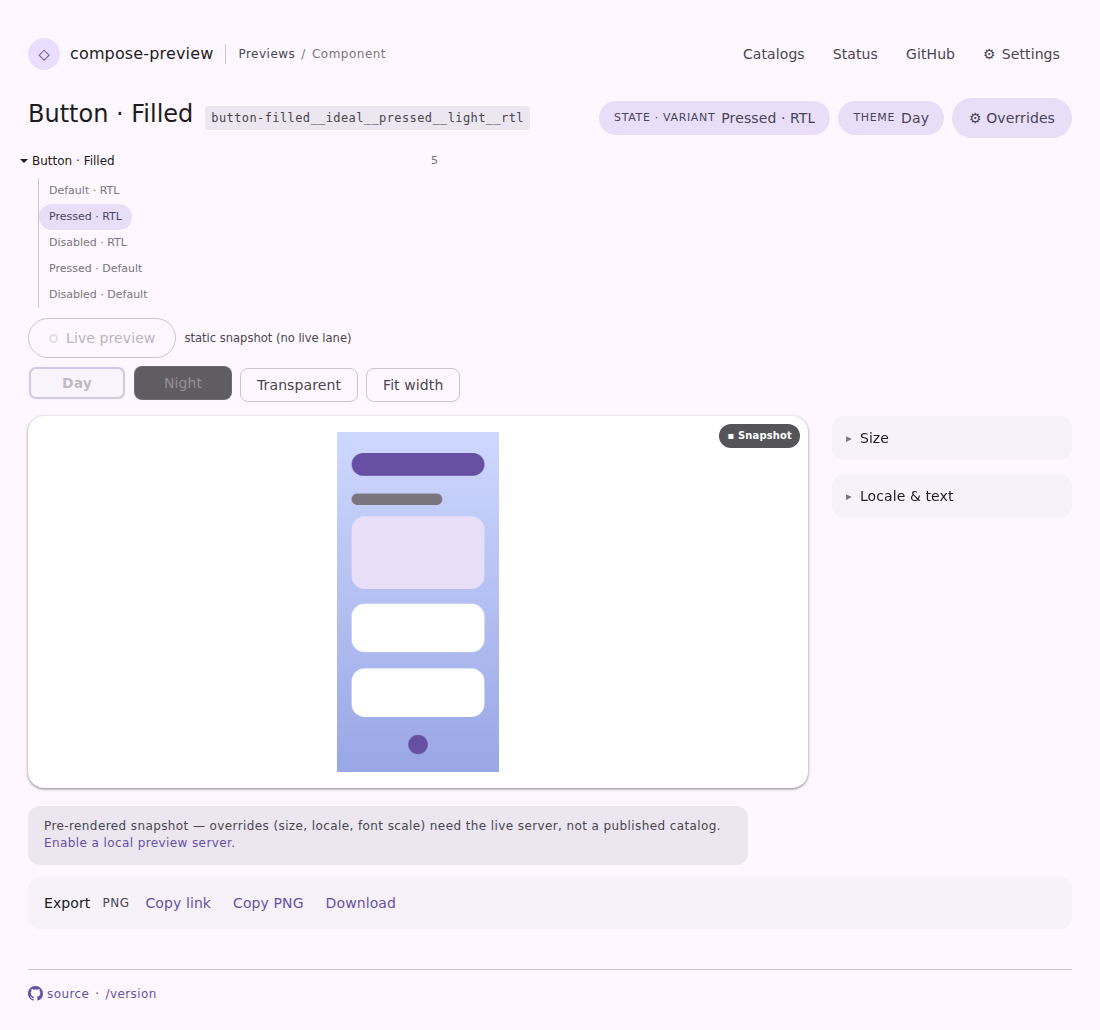
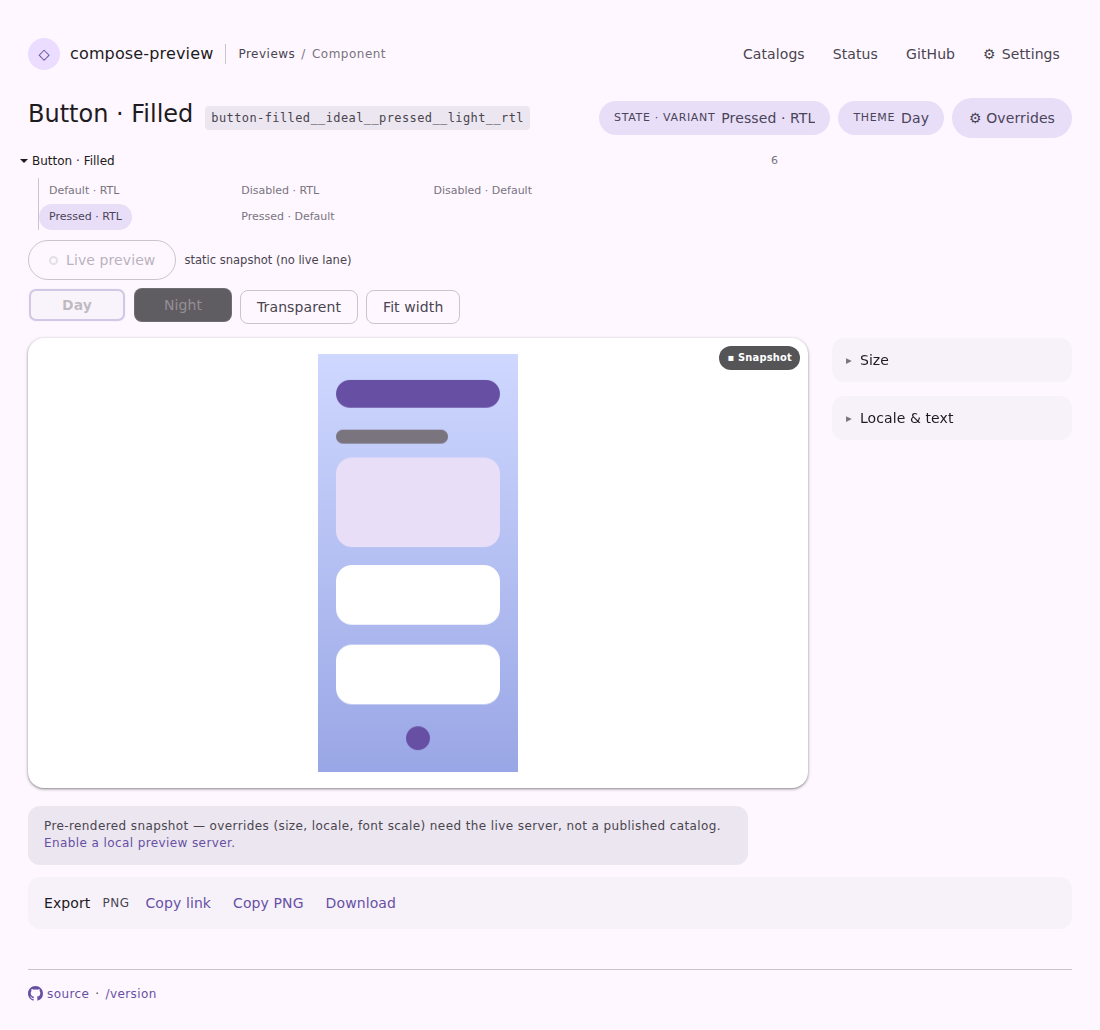
feat(serve): fold the default render into the component row, and flow a long axis into columns
Two things the merged subtree got wrong, both only visible at the real
catalog's shape.

**The default render was listed twice.** The component row already links
it — in the viewer that row IS a render, not a jump to a card — and a
`Default` child sat directly beneath saying the same thing with the same
href, one line down. The default folds up into the component row now,
which also gets the `aria-current` pill when it is the render on screen;
the children are only the ways this component differs. The landing tree
keeps its synthetic `Default` child, where the component row is an
in-page jump and the default really would have no entry otherwise.

**A long axis ran down the page.** `iconbutton-outlined` bakes 22 renders
across size × width × shape; opened, that was a 550px single-column
ladder of two-word labels with the entire right-hand side of the viewer
empty — the tree inheriting a shape that only makes sense in the
landing's 216px sidebar. The variant list now flows into columns
(`column-width`, so the browser picks the count), which puts those 22
rows in four short columns about 160px tall.

The wide-axis fixture goes from 10 states to the real 22 so the capture
shows what the open subtree actually costs on the catalog that motivated
this, rather than a token few that flattered it.

diff --git a/vscode-extension/preview-harness/fixtures/pages/serve-viewer-axes-folded.html b/vscode-extension/preview-harness/fixtures/pages/serve-viewer-axes-folded.html
@@ -62,18 +62,29 @@
       <div class="cp-axes" id="cp-axes" hidden>
 <nav class="cp-tree cp-axes-tree" aria-label="Component renders">
   <ul class="cp-tree-list" role="tree">
-    <li role="none"><a class="cp-tree-component cp-tree-link" role="treeitem" href="/p/iconbutton-outlined__ideal__default__light?token=demo-token-fixture&amp;session=compose-m3" aria-expanded="true" aria-owns="cp-axes-tree-variants">Icon Button Outlined · default (light)<span class="cp-tree-count">10</span></a>
+    <li role="none"><a class="cp-tree-component cp-tree-link" role="treeitem" href="/p/iconbutton-outlined__ideal__default__light?token=demo-token-fixture&amp;session=compose-m3" aria-expanded="true" aria-owns="cp-axes-tree-variants" aria-current="page">Icon Button Outlined · default (light)<span class="cp-tree-count">22</span></a>
       <ul class="cp-tree-children cp-tree-variants" id="cp-axes-tree-variants" role="group">
-        <li role="none"><a class="cp-tree-variant cp-tree-link" role="treeitem" href="/p/iconbutton-outlined__ideal__default__light?token=demo-token-fixture&amp;session=compose-m3" aria-current="page">Default</a></li>
         <li role="none"><a class="cp-tree-variant cp-tree-link" role="treeitem" href="/p/iconbutton-outlined__ideal__disabled__light?token=demo-token-fixture&amp;session=compose-m3">Disabled</a></li>
         <li role="none"><a class="cp-tree-variant cp-tree-link" role="treeitem" href="/p/iconbutton-outlined__ideal__xs__light?token=demo-token-fixture&amp;session=compose-m3">Xs</a></li>
+        <li role="none"><a class="cp-tree-variant cp-tree-link" role="treeitem" href="/p/iconbutton-outlined__ideal__xs-narrow__light?token=demo-token-fixture&amp;session=compose-m3">Xs narrow</a></li>
+        <li role="none"><a class="cp-tree-variant cp-tree-link" role="treeitem" href="/p/iconbutton-outlined__ideal__xs-square__light?token=demo-token-fixture&amp;session=compose-m3">Xs square</a></li>
+        <li role="none"><a class="cp-tree-variant cp-tree-link" role="treeitem" href="/p/iconbutton-outlined__ideal__xs-wide__light?token=demo-token-fixture&amp;session=compose-m3">Xs wide</a></li>
         <li role="none"><a class="cp-tree-variant cp-tree-link" role="treeitem" href="/p/iconbutton-outlined__ideal__s__light?token=demo-token-fixture&amp;session=compose-m3">S</a></li>
+        <li role="none"><a class="cp-tree-variant cp-tree-link" role="treeitem" href="/p/iconbutton-outlined__ideal__s-narrow__light?token=demo-token-fixture&amp;session=compose-m3">S narrow</a></li>
+        <li role="none"><a class="cp-tree-variant cp-tree-link" role="treeitem" href="/p/iconbutton-outlined__ideal__s-square__light?token=demo-token-fixture&amp;session=compose-m3">S square</a></li>
+        <li role="none"><a class="cp-tree-variant cp-tree-link" role="treeitem" href="/p/iconbutton-outlined__ideal__s-wide__light?token=demo-token-fixture&amp;session=compose-m3">S wide</a></li>
         <li role="none"><a class="cp-tree-variant cp-tree-link" role="treeitem" href="/p/iconbutton-outlined__ideal__m__light?token=demo-token-fixture&amp;session=compose-m3">M</a></li>
-        <li role="none"><a class="cp-tree-variant cp-tree-link" role="treeitem" href="/p/iconbutton-outlined__ideal__l__light?token=demo-token-fixture&amp;session=compose-m3">L</a></li>
-        <li role="none"><a class="cp-tree-variant cp-tree-link" role="treeitem" href="/p/iconbutton-outlined__ideal__xl__light?token=demo-token-fixture&amp;session=compose-m3">Xl</a></li>
-        <li role="none"><a class="cp-tree-variant cp-tree-link" role="treeitem" href="/p/iconbutton-outlined__ideal__m-wide__light?token=demo-token-fixture&amp;session=compose-m3">M wide</a></li>
+        <li role="none"><a class="cp-tree-variant cp-tree-link" role="treeitem" href="/p/iconbutton-outlined__ideal__m-narrow__light?token=demo-token-fixture&amp;session=compose-m3">M narrow</a></li>
         <li role="none"><a class="cp-tree-variant cp-tree-link" role="treeitem" href="/p/iconbutton-outlined__ideal__m-square__light?token=demo-token-fixture&amp;session=compose-m3">M square</a></li>
+        <li role="none"><a class="cp-tree-variant cp-tree-link" role="treeitem" href="/p/iconbutton-outlined__ideal__m-wide__light?token=demo-token-fixture&amp;session=compose-m3">M wide</a></li>
+        <li role="none"><a class="cp-tree-variant cp-tree-link" role="treeitem" href="/p/iconbutton-outlined__ideal__l__light?token=demo-token-fixture&amp;session=compose-m3">L</a></li>
+        <li role="none"><a class="cp-tree-variant cp-tree-link" role="treeitem" href="/p/iconbutton-outlined__ideal__l-narrow__light?token=demo-token-fixture&amp;session=compose-m3">L narrow</a></li>
+        <li role="none"><a class="cp-tree-variant cp-tree-link" role="treeitem" href="/p/iconbutton-outlined__ideal__l-square__light?token=demo-token-fixture&amp;session=compose-m3">L square</a></li>
+        <li role="none"><a class="cp-tree-variant cp-tree-link" role="treeitem" href="/p/iconbutton-outlined__ideal__l-wide__light?token=demo-token-fixture&amp;session=compose-m3">L wide</a></li>
+        <li role="none"><a class="cp-tree-variant cp-tree-link" role="treeitem" href="/p/iconbutton-outlined__ideal__xl__light?token=demo-token-fixture&amp;session=compose-m3">Xl</a></li>
         <li role="none"><a class="cp-tree-variant cp-tree-link" role="treeitem" href="/p/iconbutton-outlined__ideal__xl-narrow__light?token=demo-token-fixture&amp;session=compose-m3">Xl narrow</a></li>
+        <li role="none"><a class="cp-tree-variant cp-tree-link" role="treeitem" href="/p/iconbutton-outlined__ideal__xl-square__light?token=demo-token-fixture&amp;session=compose-m3">Xl square</a></li>
+        <li role="none"><a class="cp-tree-variant cp-tree-link" role="treeitem" href="/p/iconbutton-outlined__ideal__xl-wide__light?token=demo-token-fixture&amp;session=compose-m3">Xl wide</a></li>
       </ul>
     </li>
   </ul>

diff --git a/cli/src/main/kotlin/ee/schimke/composeai/cli/serve/ServeWeb.kt b/cli/src/main/kotlin/ee/schimke/composeai/cli/serve/ServeWeb.kt
@@ -1429,10 +1429,12 @@ object ServeWeb {
     /** Collapsed by default; the viewer's subtree opens, having only one component to show. */
     collapsed: Boolean = true,
     /**
-     * Whether to lead the children with a synthetic **Default** row pointing at [defaultHref]. The
-     * landing needs it — its rows are the component's *variants*, and the default render is not one
-     * of them. The viewer's rows already include the default (it is a state like any other), so
-     * emitting it there would list the same render twice under one component.
+     * Whether to lead the children with a synthetic **Default** row pointing at [defaultHref].
+     *
+     * The landing needs it: there the component row is an in-page jump to a card, not a render, so
+     * without this row the default has no entry of its own. The viewer does not, because there the
+     * component row IS the default render — a `Default` child beneath it would be a second row with
+     * the same href and the same destination, which is the duplication this flag exists to avoid.
      */
     syntheticDefaultRow: Boolean = true,
     /** The row whose href matches is `aria-current="page"` — the render on screen. */
@@ -1440,21 +1442,22 @@ object ServeWeb {
     indent: String = "        ",
   ) {
     fun current(target: String) = if (target == currentHref) " aria-current=\"page\"" else ""
-    // Only the VARIANT rows can be current. The component row and the synthetic Default row share
-    // an href — the component's default render — so marking both would put two "you are here"
-    // pills in a three-row list. The component row names the component; the rows under it are the
-    // renders, and one of those is the page.
+    // The component row can itself be current — in the viewer it IS the default render, the rows
+    // under it being the other ones. Nothing double-marks, because a caller that folds the default
+    // into this row also drops it from [variants]; a caller that keeps a synthetic Default row
+    // (the landing) passes no [currentHref] at all.
     append("$indent<li role=\"none\"><a class=\"cp-tree-component cp-tree-link\"")
     append(" role=\"treeitem\" href=\"${WebEscaping.htmlEscape(href)}\"$rowAttrs")
     if (variants.isNotEmpty()) {
       append(" aria-expanded=\"${!collapsed}\" aria-owns=\"$variantsId\"")
     }
+    append(current(href))
     append(">")
     append(WebEscaping.htmlEscape(label))
     if (variants.isNotEmpty()) {
-      append(
-        "<span class=\"cp-tree-count\">${variants.size + if (syntheticDefaultRow) 1 else 0}</span>"
-      )
+      // +1 for the default render either way: the landing lists it as the synthetic child row
+      // below, the viewer folds it into this row.
+      append("<span class=\"cp-tree-count\">${variants.size + 1}</span>")
     }
     append("</a>\n")
     if (variants.isNotEmpty()) {
@@ -1654,9 +1657,14 @@ object ServeWeb {
     // subtree built from the axes alone would show the reader every render of this component
     // except the one they are looking at, with nothing marked current. A tree that says "this
     // component's renders" has to contain the page it is drawn on.
-    val variants =
+    val withCurrent =
       if (rows.any { it.href == href(preview) } || preview.id == default.id) rows
       else rows + TreeVariant(previewDisplayName(preview), href(preview), "props")
+    // The DEFAULT render is the component row, not a child of it. Both pointed at the same href —
+    // the same page, reached two ways, one line apart — and the child said "Default" directly under
+    // a row already naming that render. Folding it up leaves the tree saying each render once: the
+    // component, then the ways it differs.
+    val variants = withCurrent.filterNot { it.href == href(default) }
     if (variants.isEmpty()) return ""
     return buildString {
         append("<nav class=\"cp-tree cp-axes-tree\" aria-label=\"Component renders\">\n")

diff --git a/cli/src/test/kotlin/ee/schimke/composeai/cli/serve/ServeWebFixtureTest.kt b/cli/src/test/kotlin/ee/schimke/composeai/cli/serve/ServeWebFixtureTest.kt
@@ -338,13 +338,38 @@ class ServeWebFixtureTest {
   /**
    * A component with a WIDE state axis — the published m3-catalog's `iconbutton-outlined` bakes one
    * render per size × width × shape, which is what pushed the switcher past the point where showing
-   * every chip was worth the fold it cost. Past [ServeWeb]'s inline threshold the rows arrive
-   * folded behind the title bar's `State · …` toggle, so this is the fixture that captures the
-   * *collapsed* axes disclosure for the visual-diff bot; `serve-viewer-states.html` (two states)
-   * keeps the expanded case.
+   * every chip was worth the fold it cost. Sized to that real shape (22 states) rather than a token
+   * few, so the capture shows what the OPEN subtree actually costs on the catalog that motivated
+   * this — the case a smaller fixture would have flattered. Past [ServeWeb]'s inline threshold the
+   * rows arrive folded behind the title bar's `State · …` toggle, so this is the fixture that
+   * captures the *collapsed* axes disclosure for the visual-diff bot; `serve-viewer-states.html`
+   * (two states) keeps the expanded case.
    */
   private val wideStatePreviews =
-    listOf("default", "disabled", "xs", "s", "m", "l", "xl", "m-wide", "m-square", "xl-narrow")
+    listOf(
+        "default",
+        "disabled",
+        "xs",
+        "xs-narrow",
+        "xs-square",
+        "xs-wide",
+        "s",
+        "s-narrow",
+        "s-square",
+        "s-wide",
+        "m",
+        "m-narrow",
+        "m-square",
+        "m-wide",
+        "l",
+        "l-narrow",
+        "l-square",
+        "l-wide",
+        "xl",
+        "xl-narrow",
+        "xl-square",
+        "xl-wide",
+      )
       .flatMap { state ->
         listOf("light", "dark").map { theme ->
           ServePreview(
@@ -2696,7 +2721,8 @@ class ServeWebFixtureTest {
     val variantNav =
       viewerVariants.substringAfter("class=\"cp-tree cp-axes-tree\"").substringBefore("</nav>")
     assertTrue(
-      variantNav.contains("aria-current=\"page\">Default</a>") &&
+      variantNav.contains("cp-tree-component cp-tree-link\" role=\"treeitem\"") &&
+        variantNav.contains("aria-current=\"page\">Button") &&
         variantNav.contains("/p/button-filled__ideal__default__light__direction-rtl") &&
         variantNav.contains(">RTL</a>"),
       "the viewer subtree marks Default active and links the same-theme RTL variant",
@@ -2870,7 +2896,7 @@ class ServeWebFixtureTest {
     val statesNav =
       viewerStates.substringAfter("class=\"cp-tree cp-axes-tree\"").substringBefore("</nav>")
     assertTrue(
-      statesNav.contains("aria-current=\"page\">Default</a>") &&
+      statesNav.contains("aria-current=\"page\">Checkbox") &&
         statesNav.contains("/p/checkbox__ideal__unchecked__light"),
       "the viewer subtree marks Default active and links the same-theme sibling",
     )

diff --git a/vscode-extension/preview-harness/fixtures/pages/serve-viewer-nav-collapsed.html b/vscode-extension/preview-harness/fixtures/pages/serve-viewer-nav-collapsed.html
@@ -62,9 +62,8 @@
       <div class="cp-axes" id="cp-axes">
 <nav class="cp-tree cp-axes-tree" aria-label="Component renders">
   <ul class="cp-tree-list" role="tree">
-    <li role="none"><a class="cp-tree-component cp-tree-link" role="treeitem" href="/p/button-filled__ideal__default__light?token=demo-token-fixture&amp;session=compose-m3" aria-expanded="true" aria-owns="cp-axes-tree-variants">Button · Filled (light)<span class="cp-tree-count">4</span></a>
+    <li role="none"><a class="cp-tree-component cp-tree-link" role="treeitem" href="/p/button-filled__ideal__default__light?token=demo-token-fixture&amp;session=compose-m3" aria-expanded="true" aria-owns="cp-axes-tree-variants" aria-current="page">Button · Filled (light)<span class="cp-tree-count">4</span></a>
       <ul class="cp-tree-children cp-tree-variants" id="cp-axes-tree-variants" role="group">
-        <li role="none"><a class="cp-tree-variant cp-tree-link" role="treeitem" href="/p/button-filled__ideal__default__light?token=demo-token-fixture&amp;session=compose-m3" aria-current="page">Default</a></li>
         <li role="none"><a class="cp-tree-variant cp-tree-link" role="treeitem" href="/p/button-filled__ideal__default__light__direction-rtl?token=demo-token-fixture&amp;session=compose-m3">RTL</a></li>
         <li role="none"><a class="cp-tree-variant cp-tree-link" role="treeitem" href="/p/button-filled__ideal__default__light__locale-ar-xb?token=demo-token-fixture&amp;session=compose-m3">Locale ar-XB</a></li>
         <li role="none"><a class="cp-tree-variant cp-tree-link" role="treeitem" href="/p/button-filled__ideal__default__light__fontscale-2.0?token=demo-token-fixture&amp;session=compose-m3">Font 2.0×</a></li>

diff --git a/vscode-extension/preview-harness/fixtures/pages/serve-viewer-variants.html b/vscode-extension/preview-harness/fixtures/pages/serve-viewer-variants.html
@@ -62,9 +62,8 @@
       <div class="cp-axes" id="cp-axes">
 <nav class="cp-tree cp-axes-tree" aria-label="Component renders">
   <ul class="cp-tree-list" role="tree">
-    <li role="none"><a class="cp-tree-component cp-tree-link" role="treeitem" href="/p/button-filled__ideal__default__light?token=demo-token-fixture&amp;session=compose-m3" aria-expanded="true" aria-owns="cp-axes-tree-variants">Button · Filled (light)<span class="cp-tree-count">4</span></a>
+    <li role="none"><a class="cp-tree-component cp-tree-link" role="treeitem" href="/p/button-filled__ideal__default__light?token=demo-token-fixture&amp;session=compose-m3" aria-expanded="true" aria-owns="cp-axes-tree-variants" aria-current="page">Button · Filled (light)<span class="cp-tree-count">4</span></a>
       <ul class="cp-tree-children cp-tree-variants" id="cp-axes-tree-variants" role="group">
-        <li role="none"><a class="cp-tree-variant cp-tree-link" role="treeitem" href="/p/button-filled__ideal__default__light?token=demo-token-fixture&amp;session=compose-m3" aria-current="page">Default</a></li>
         <li role="none"><a class="cp-tree-variant cp-tree-link" role="treeitem" href="/p/button-filled__ideal__default__light__direction-rtl?token=demo-token-fixture&amp;session=compose-m3">RTL</a></li>
         <li role="none"><a class="cp-tree-variant cp-tree-link" role="treeitem" href="/p/button-filled__ideal__default__light__locale-ar-xb?token=demo-token-fixture&amp;session=compose-m3">Locale ar-XB</a></li>
         <li role="none"><a class="cp-tree-variant cp-tree-link" role="treeitem" href="/p/button-filled__ideal__default__light__fontscale-2.0?token=demo-token-fixture&amp;session=compose-m3">Font 2.0×</a></li>

diff --git a/cli/src/test/kotlin/ee/schimke/composeai/cli/serve/ServeWebTest.kt b/cli/src/test/kotlin/ee/schimke/composeai/cli/serve/ServeWebTest.kt
@@ -116,8 +116,8 @@ class ServeWebTest {
     )
     // The current (default) state is marked active with a human label.
     assertTrue(
-      nav.contains("aria-current=\"page\">Default</a>"),
-      "the current state is marked active",
+      nav.contains("aria-current=\"page\">checkbox"),
+      "the default render IS the component row, and it is marked active",
     )
   }
 
@@ -308,7 +308,7 @@ class ServeWebTest {
       ServeWeb.viewerPage(labelDefault, token = "t", basePath = "/compose-m3", siblings = all)
     val labelNav =
       labelHtml.substringAfter("class=\"cp-tree cp-axes-tree\"").substringBefore("</nav>")
-    assertTrue(labelNav.contains("aria-current=\"page\">Default</a>"), "current state active")
+    assertTrue(labelNav.contains("aria-current=\"page\">Filled"), "current state active")
     assertTrue(
       labelNav.contains("/p/button-filled__ideal__pressed__light"),
       "links its own pressed state",
@@ -429,7 +429,7 @@ class ServeWebTest {
     // …and never the dark render (that would jump the visitor's theme).
     assertFalse(nav.contains("__dark__direction-rtl"), "switcher stays within the current theme")
     // The default is marked active, and the variants carry human labels.
-    assertTrue(nav.contains("aria-current=\"page\">Default</a>"), "the default is marked active")
+    assertTrue(nav.contains("aria-current=\"page\">Filled"), "the default is marked active")
     assertTrue(
       nav.contains(">RTL</a>") && nav.contains(">Locale ar-XB</a>"),
       "props variants render human labels",

diff --git a/cli/src/main/resources/ee/schimke/composeai/cli/serve/assets/serve.css b/cli/src/main/resources/ee/schimke/composeai/cli/serve/assets/serve.css
@@ -997,7 +997,15 @@ html:not(.cp-bg-transparent) .cp-viewer[data-bg-theme="light"] .cp-stage { backg
    grid, so both the stickiness and the outer margin are undone. Overriding rather than minting a
    parallel class is the point: a change to how a tree row looks has to reach both places. */
 .cp-axes-tree { position: static; max-height: none; overflow: visible; margin: 0 0 10px;
-  max-width: 420px; }
+  max-width: 760px; }
+/* A long axis FLOWS into columns rather than running down the page. On the landing the tree lives
+   in a 216px sidebar, where one column is the only option; here it sits full-width above the stage
+   with the whole right-hand side empty, and `iconbutton-outlined`'s 22 size × width × shape renders
+   became a 550px ladder of two-word labels — half the fold, to say what fits in four short columns.
+   `column-width` rather than a column count so the browser picks the number that fits, and the
+   rows stay one-per-line at any width. */
+.cp-axes-tree .cp-tree-variants { columns: 11em; column-gap: 20px; }
+.cp-axes-tree .cp-tree-variants li { break-inside: avoid; }
 /* The subtree's ROOT is the component itself, so it hangs off nothing and needs no rail or indent
    of its own; the variants keep theirs, which is what still reads as a tree rather than a list. */
 .cp-axes-tree > .cp-tree-list > li > .cp-tree-component { padding-left: 0; }

diff --git a/vscode-extension/preview-harness/fixtures/pages/serve-viewer-states.html b/vscode-extension/preview-harness/fixtures/pages/serve-viewer-states.html
@@ -62,9 +62,8 @@
       <div class="cp-axes" id="cp-axes">
 <nav class="cp-tree cp-axes-tree" aria-label="Component renders">
   <ul class="cp-tree-list" role="tree">
-    <li role="none"><a class="cp-tree-component cp-tree-link" role="treeitem" href="/p/checkbox__ideal__default__light?token=demo-token-fixture&amp;session=compose-m3" aria-expanded="true" aria-owns="cp-axes-tree-variants">Checkbox · Checked (light)<span class="cp-tree-count">2</span></a>
+    <li role="none"><a class="cp-tree-component cp-tree-link" role="treeitem" href="/p/checkbox__ideal__default__light?token=demo-token-fixture&amp;session=compose-m3" aria-expanded="true" aria-owns="cp-axes-tree-variants" aria-current="page">Checkbox · Checked (light)<span class="cp-tree-count">2</span></a>
       <ul class="cp-tree-children cp-tree-variants" id="cp-axes-tree-variants" role="group">
-        <li role="none"><a class="cp-tree-variant cp-tree-link" role="treeitem" href="/p/checkbox__ideal__default__light?token=demo-token-fixture&amp;session=compose-m3" aria-current="page">Default</a></li>
         <li role="none"><a class="cp-tree-variant cp-tree-link" role="treeitem" href="/p/checkbox__ideal__unchecked__light?token=demo-token-fixture&amp;session=compose-m3">Unchecked</a></li>
       </ul>
     </li>

diff --git a/vscode-extension/preview-harness/fixtures/pages/serve-viewer-cross-product.html b/vscode-extension/preview-harness/fixtures/pages/serve-viewer-cross-product.html
@@ -62,7 +62,7 @@
       <div class="cp-axes" id="cp-axes" hidden>
 <nav class="cp-tree cp-axes-tree" aria-label="Component renders">
   <ul class="cp-tree-list" role="tree">
-    <li role="none"><a class="cp-tree-component cp-tree-link" role="treeitem" href="/p/button-filled__ideal__default__light?token=demo-token-fixture&amp;session=compose-m3" aria-expanded="true" aria-owns="cp-axes-tree-variants">Button · Filled<span class="cp-tree-count">5</span></a>
+    <li role="none"><a class="cp-tree-component cp-tree-link" role="treeitem" href="/p/button-filled__ideal__default__light?token=demo-token-fixture&amp;session=compose-m3" aria-expanded="true" aria-owns="cp-axes-tree-variants">Button · Filled<span class="cp-tree-count">6</span></a>
       <ul class="cp-tree-children cp-tree-variants" id="cp-axes-tree-variants" role="group">
         <li role="none"><a class="cp-tree-variant cp-tree-link" role="treeitem" href="/p/button-filled__ideal__default__light__rtl?token=demo-token-fixture&amp;session=compose-m3">Default · RTL</a></li>
         <li role="none"><a class="cp-tree-variant cp-tree-link" role="treeitem" href="/p/button-filled__ideal__pressed__light__rtl?token=demo-token-fixture&amp;session=compose-m3" aria-current="page">Pressed · RTL</a></li>

diff --git a/cli/src/test/kotlin/ee/schimke/composeai/cli/serve/ServeViewerDisclosuresTest.kt b/cli/src/test/kotlin/ee/schimke/composeai/cli/serve/ServeViewerDisclosuresTest.kt
@@ -189,12 +189,15 @@ class ServeViewerDisclosuresTest {
     // The other side of the rule above: repeating "· Default" on every row of the components that
     // vary on one axis — nearly all of them — would be noise for a distinction they cannot make.
     val html = viewer(statePreviews(3))
-    // Scoped to the variant rows: the component row above them carries the preview's own display
+    // Scoped to the child rows: the component row above them carries the preview's own display
     // name, which may legitimately hold a `·` of its own.
     val rows =
       html.substringAfter("class=\"cp-tree-children cp-tree-variants\"").substringBefore("</ul>")
-    assertTrue(rows.contains(">Default</a>") && rows.contains(">State 1</a>"), rows)
+    assertTrue(rows.contains(">State 1</a>") && rows.contains(">State 2</a>"), rows)
     assertFalse(rows.contains(" · "), "a one-axis component names one axis: $rows")
+    // …and the default is NOT among them: it is the component row, which is where the reader
+    // already is. Two rows for one render, one line apart, is what folding it up removed.
+    assertFalse(rows.contains(">Default</a>"), "the default is the parent row, not a child: $rows")
   }
 
   @Test

diff --git a/renders/viewer-disclosures/README.md b/renders/viewer-disclosures/README.md
@@ -30,7 +30,7 @@ shoot it again.
 | `theme-overflow-before.png` | the `serve-viewer-theme-overflow` fixture **before**: eight theme chips on a row of their own, four of them ellipsised, the drawer toggles at either end of the bar |
 | `theme-overflow-after.png` | the same page **after**: the chips fold behind `THEME · Night` on the title row, and the row they occupied is back |
 | `viewer-folded.png` | the resting state on a wide catalog: ten states and five themes folded behind `STATE · Default` / `THEME · Day`, the render starting where three chip rows used to |
-| `viewer-axes-open.png` | both folds opened — the component's **subtree** (the catalog tree filtered to this component, current render marked) and the theme bar are one click away, and the toggles go tonal to say so |
+| `viewer-axes-open.png` | both folds opened on the real 22-render shape — the component's **subtree** (the catalog tree filtered to this component) flowing into columns rather than a 550px ladder, the default folded into the component row and marked current |
 | `viewer-nav-closed.png` | the component list collapsed **on a desktop**, which it could not be before: the 240px column goes back to the stage |
 | `cross-product-labels.png` | a component baking state × props as a matrix, entered on `pressed + RTL` with its subtree open: every row names both coordinates, so the state-reset row and the props-reset row are told apart instead of both reading "Default" |
 | `viewer-mobile.png` | a phone, scrolled past the top: the title row is sticky, so all four disclosures stay one tap away over a tall preview |
